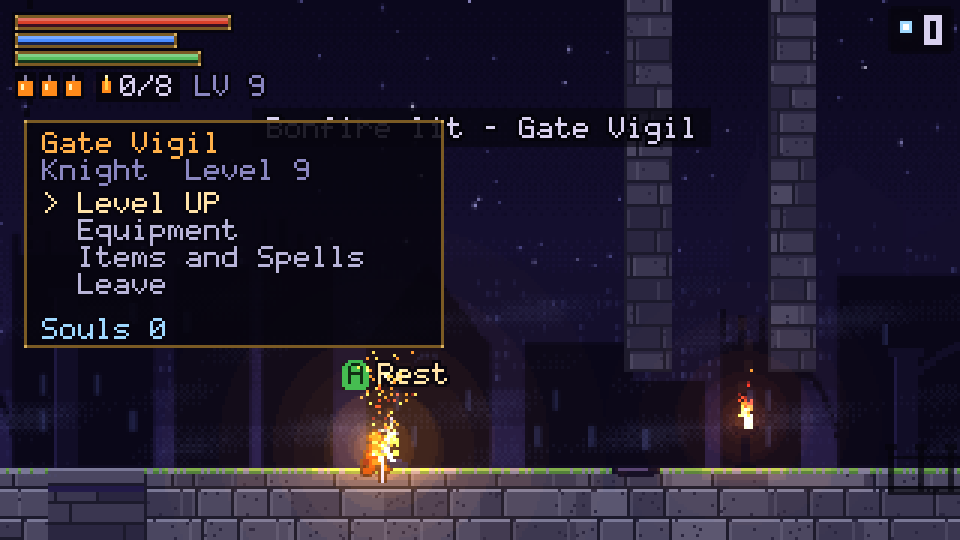
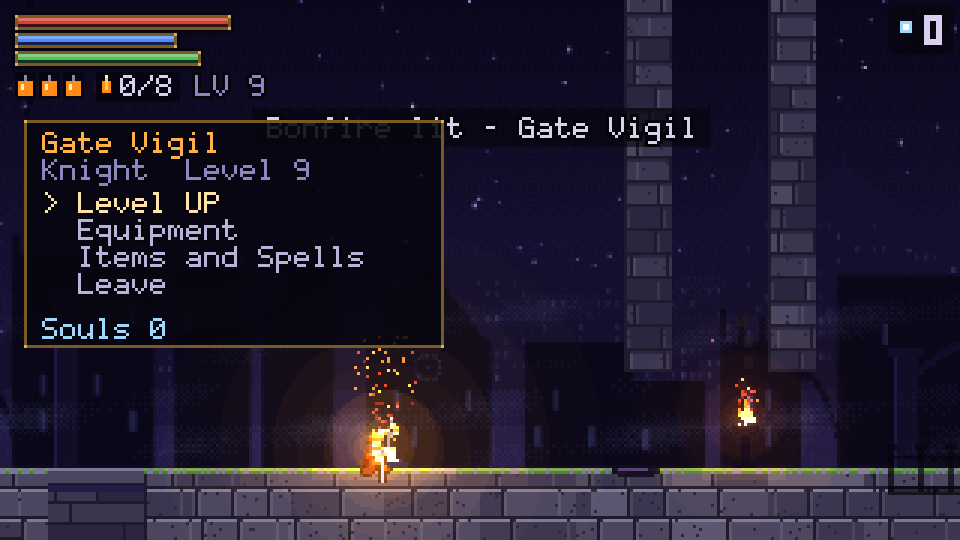
Hide the bonfire Rest prompt while the bonfire menu is open

Changed region(s): [[0.3438, 0.6519, 0.4688, 0.8593], [0.75, 0.7111, 0.7812, 0.8]]

diff --git a/game.js b/game.js
@@ -1390,7 +1390,7 @@ class Stage extends Phaser.Scene{constructor(){super('stage')}
    for(let k=0;k<4;k++){const hy=by-24-k*7-((t*14+k*7)%7);const hx=x+Math.sin(t*5+k*1.7+x)*1.5;ga.fillStyle(0xff9040,.05);ga.fillRect(Math.round(hx)-1,Math.round(hy),3,4)}}
   {const x=this.bonfire.x,lit=this.bonfire.lit;g.fillStyle(0x2a2245);g.fillRect(x-7,GY-2,15,2);g.fillStyle(0x3a3060);g.fillRect(x-5,GY-3,11,1);line(g,x,GY-2,x+2,GY-17,0x8b86a8);line(g,x-2,GY-13,x+4,GY-12,0x8b86a8);px(g,x+2,GY-17,0xd8d0ee);
    glow(ga,x,GY-6,(lit?30:14)+Math.sin(t*9)*1.5,C.f2,lit?.17:.1);this.light(x,GY-8,(lit?74:34)+Math.sin(t*9)*2,C.f2,lit?.75:.35);
-   if(Math.abs(P.x-x)<TUNE.restR&&!this.cine&&!P.dead){const bob=Math.floor(t*3)%2,tx=x-14,ty=GY-32-bob;this.keyGlyph(g,tx,ty-1,'Rest')}}
+   if(Math.abs(P.x-x)<TUNE.restR&&!this.cine&&!P.dead&&!this.menu){const bob=Math.floor(t*3)%2,tx=x-14,ty=GY-32-bob;this.keyGlyph(g,tx,ty-1,'Rest')}}
   if(this.stain){const S=this.stain,sy=S.y||GY,pl=Math.sin(t*5)*.5+.5;glow(ga,S.x,sy-3,6+pl*2,0x5fe0c0,.3);px(ga,S.x,sy-2,0xffffff);px(ga,S.x-1,sy-1,0x9ff0dc);px(ga,S.x+1,sy-1,0x9ff0dc);this.light(S.x,sy-4,26,0x5fe0c0,.5)}
   this.drawStageFX(g,ga);this.drawExplore(g,ga);this.drawStory(g,ga);
   for(const s of this.spells){if(s.t<0)continue;const gt=clamp(s.t/ICEP.grow,0,1);let h=s.h*ease(gt);if(s.t>.6)h*=1-(s.t-.6)/.15;
